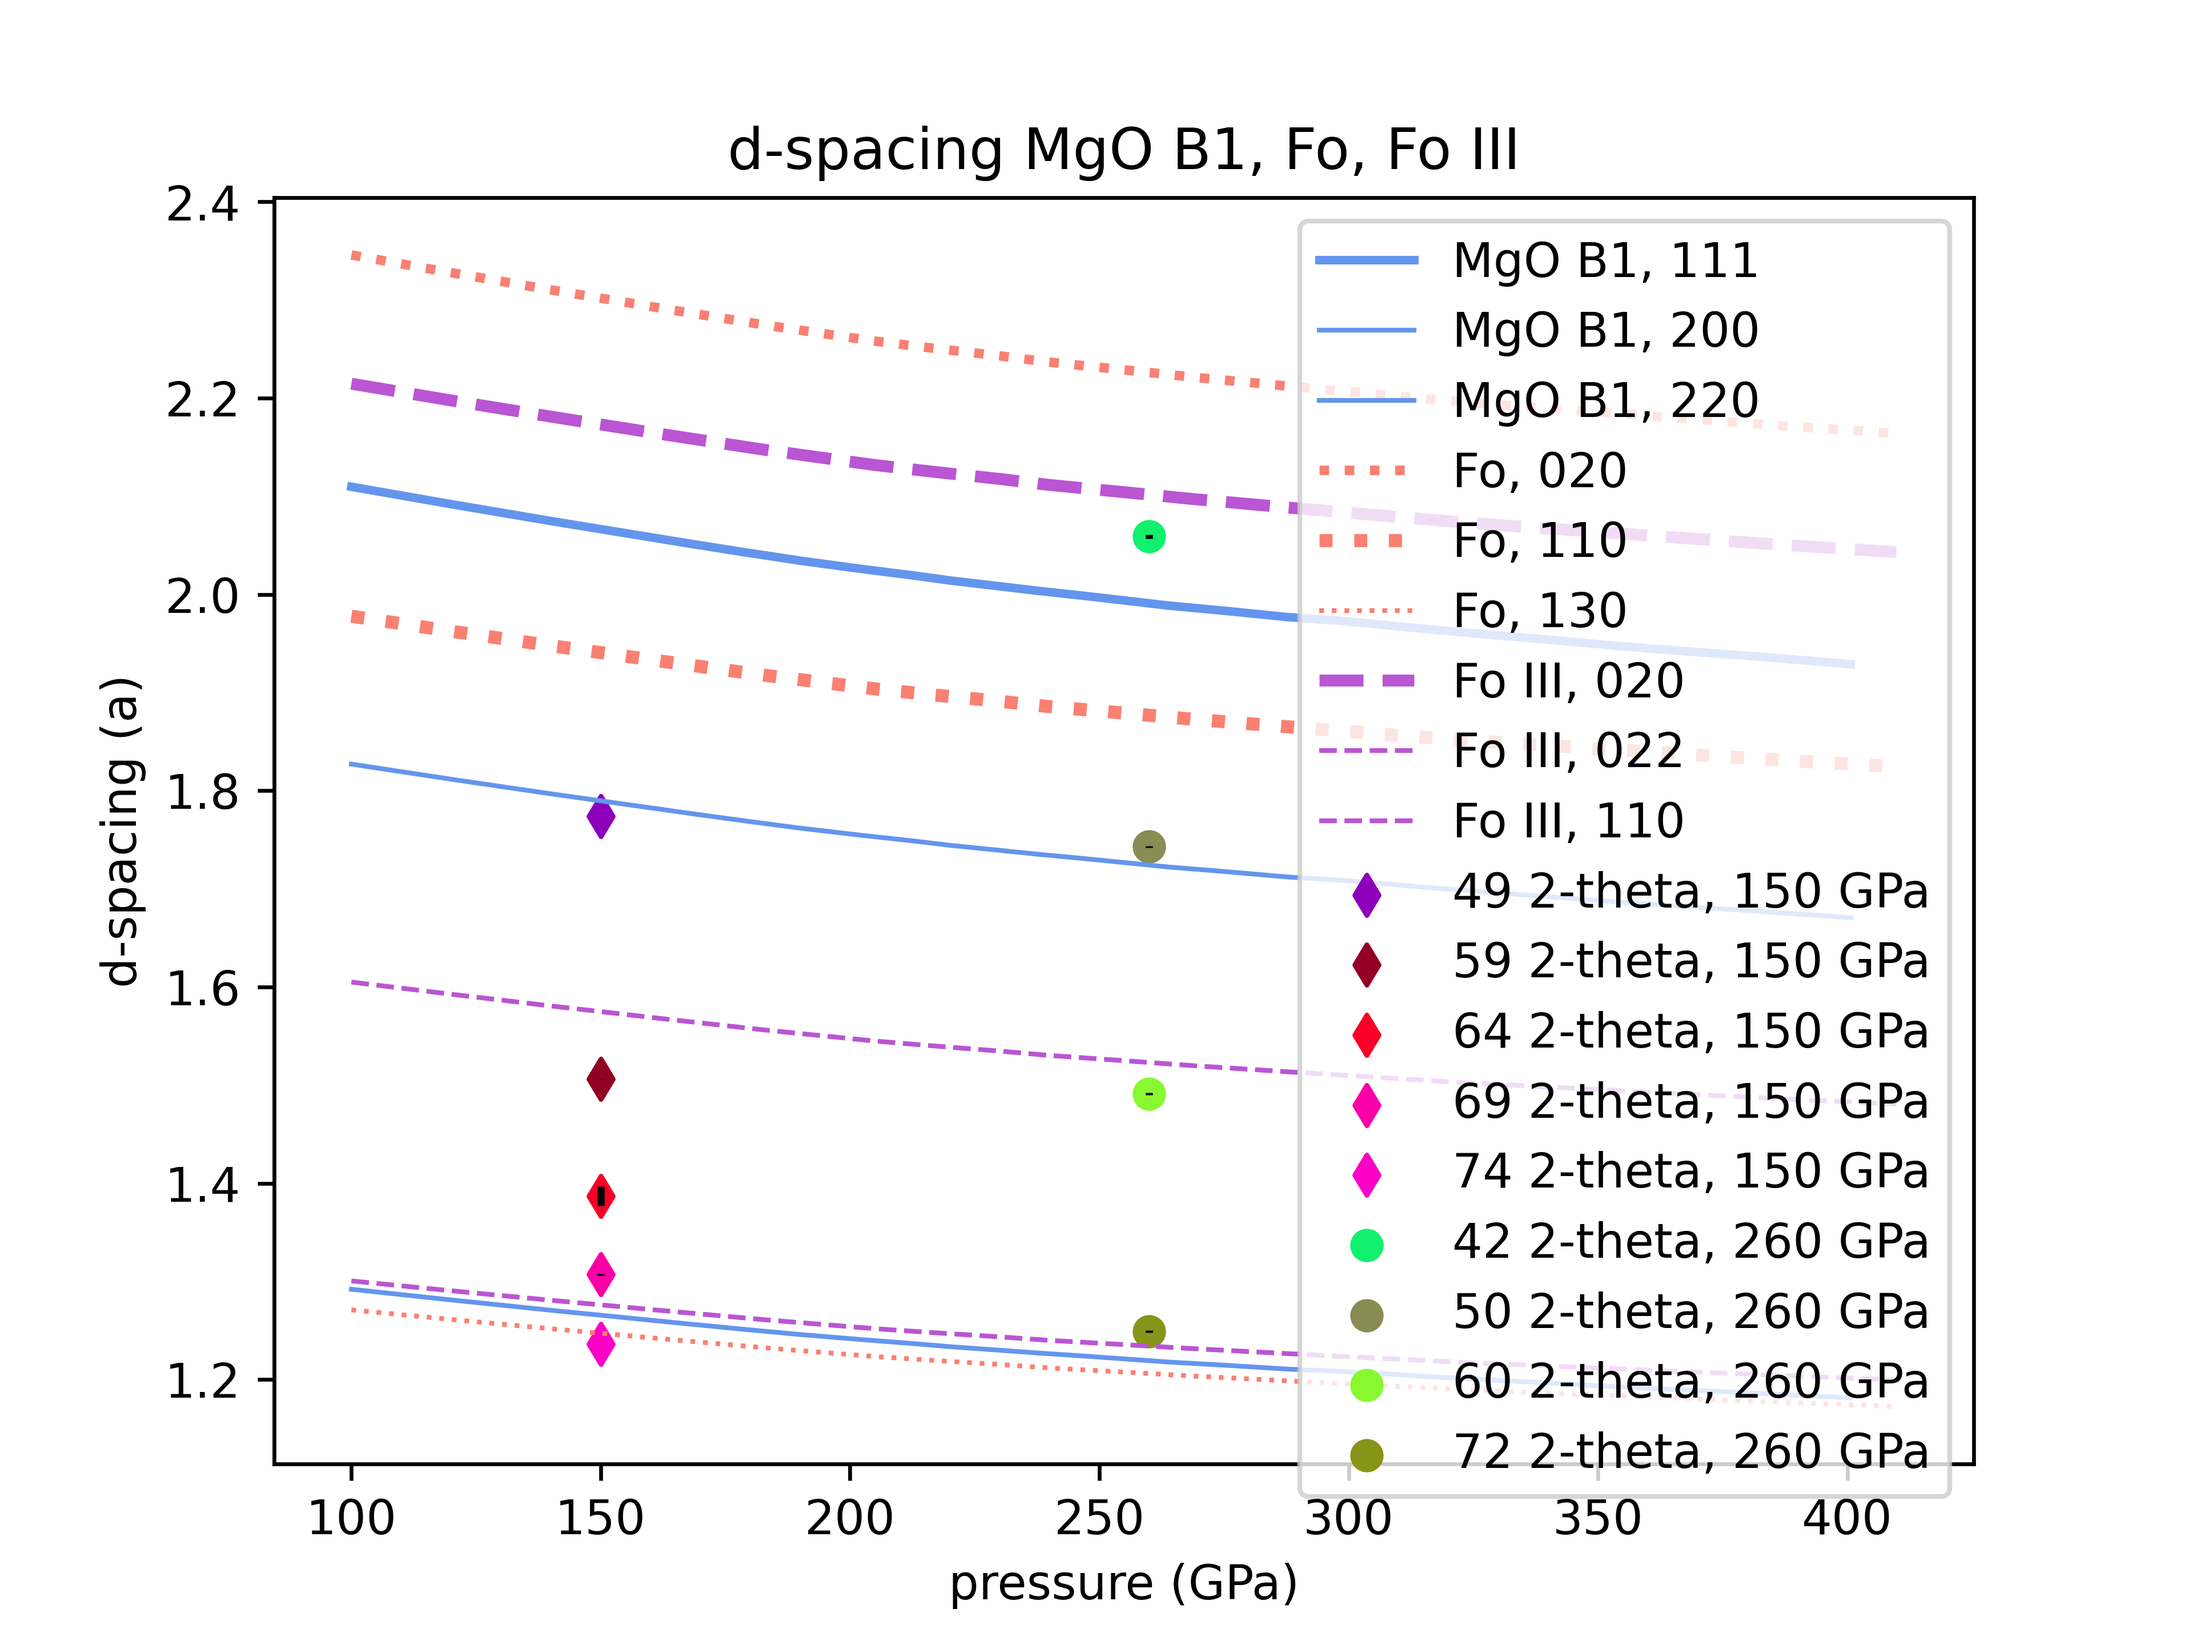
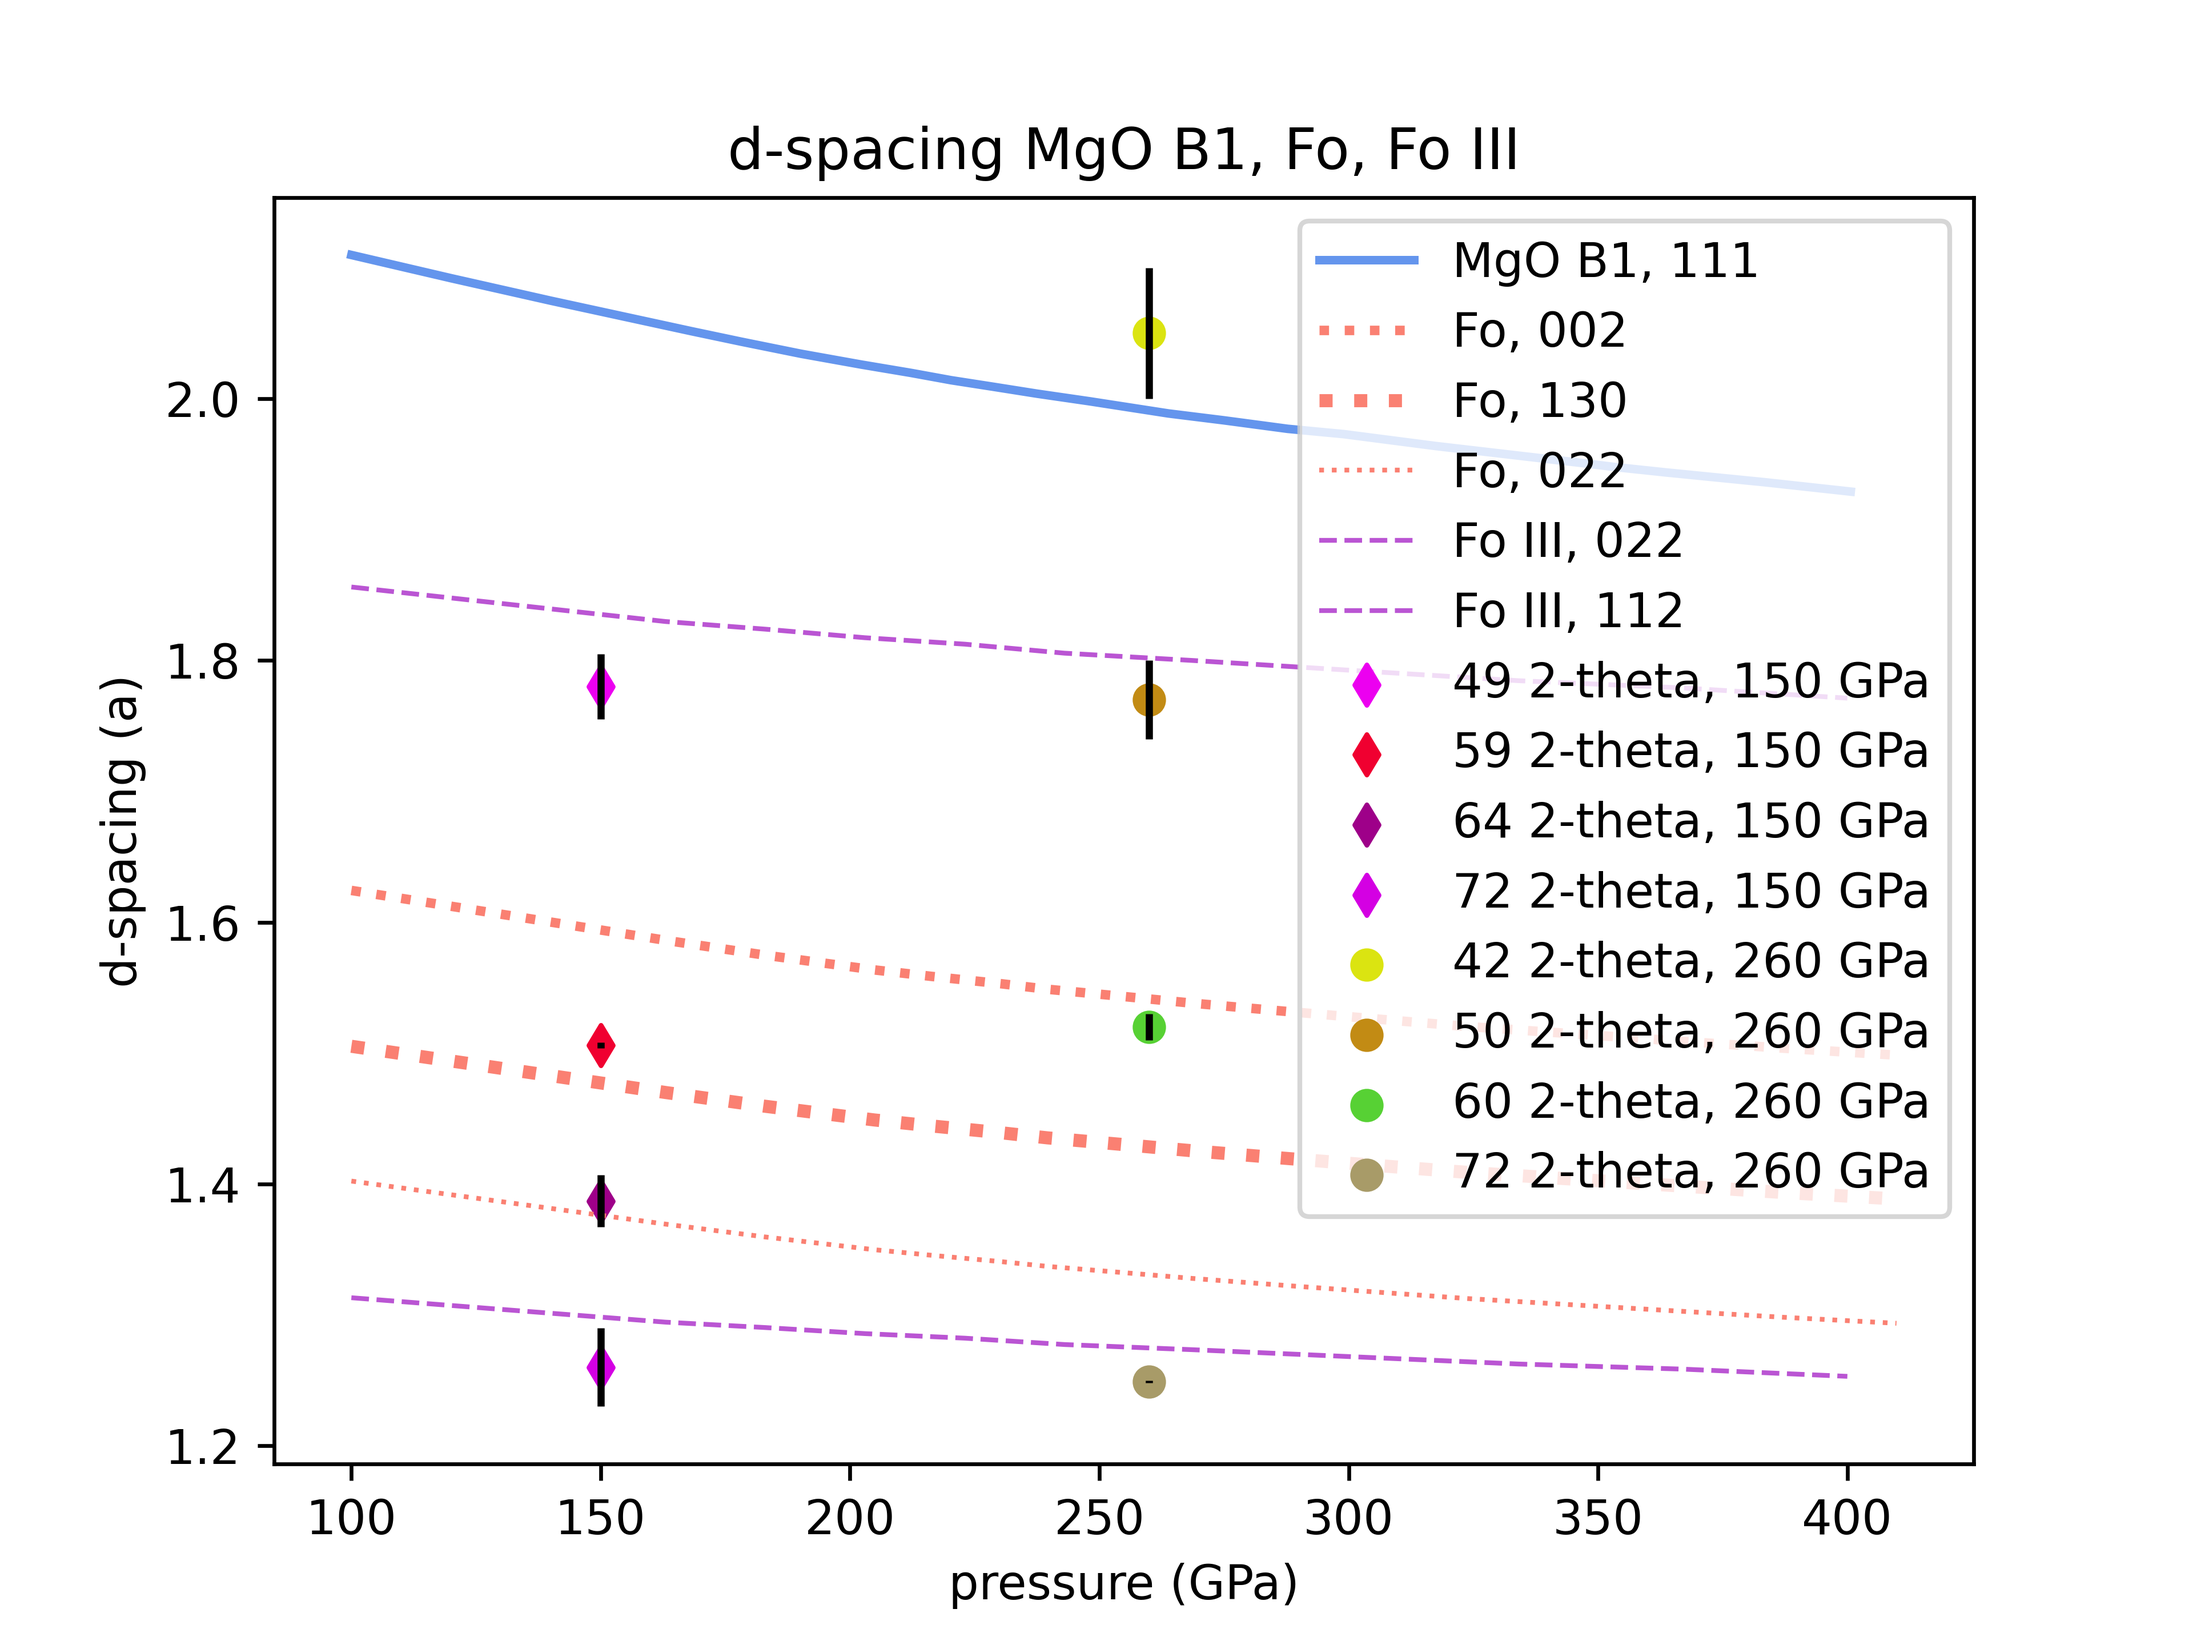
new d-spacing graph

diff --git a/really_really_combined_graph/make_combined_graph.py b/really_really_combined_graph/make_combined_graph.py
@@ -13,11 +13,11 @@ bIII = 8.596
 cIII = 9.04
 pressure_lower = 150
 pressure_higher = 260
-reflections_MgO = [["111",1.8],["200",1],["220",1]]
-reflections_Fo = [["020",2],["110",2.75],["130",1]]
-reflections_FoIII = [["020",2.5],["022",1],["110",1]]
-points_lower = {"49":[1.774,0.0002],"59":[1.506,0.0002],"64":[1.387,0.01],"69":[1.307,0.001],"74":[1.236,0.0001]}
-points_higher = {"42":[2.059,0.002],"50":[1.743,0.001],"60":[1.491,0.001],"72":[1.249,0.001]}
+reflections_MgO = [["111",1.8]]
+reflections_Fo = [["002",2],["130",2.75],["022",1]]
+reflections_FoIII = [["022",1],["112",1]]
+points_lower = {"49":[1.78,0.025],"59":[1.506,0.002],"64":[1.387,0.02],"72":[1.26,0.03]}
+points_higher = {"42":[2.05,0.05],"50":[1.77,0.03],"60":[1.52,0.01],"72":[1.249,0.001]}
 def dspacing_cubic(rho,x,orientation,m):
     h = x[0]
     k = x[1]
@@ -28,7 +28,7 @@ def dspacing_orthorhombic(rho,x,a0,b0,c0,m):
     h = x[0]
     k = x[1]
     l = x[2]
-    v = m/rho
+    v = (m/rho)*1.661
     p0 = v0/v
     p = p0**(1/3)
     a = a0/p
@@ -37,12 +37,13 @@ def dspacing_orthorhombic(rho,x,a0,b0,c0,m):
     return 1/math.sqrt(eval(h)**2/a**2+eval(k)**2/b**2+eval(l)**2/c**2)
 df_MgO = pd.read_csv("MgO_hugonoit.csv")
 df_Fo = pd.read_csv("forsterite_hugoniot.csv")
+df_FoIII = pd.read_csv("forsteriteIII_hugoniot.csv")
 for x in reflections_MgO:
     plt.plot(df_MgO.pressure, df_MgO.density.apply(dspacing_cubic, args = (x[0],6,m_MgO,)), label = f"MgO B1, {x[0]}", lw = x[1], c = "cornflowerblue")
 for x in reflections_Fo:
     plt.plot(df_Fo.pressure, df_Fo.density.apply(dspacing_orthorhombic, args = (x[0],a,b,c,m_Fo,)), label = f"Fo, {x[0]}", ls = ':',lw = x[1], c = "salmon")
 for x in reflections_FoIII:
-    plt.plot(df_Fo.pressure, df_Fo.density.apply(dspacing_orthorhombic, args = (x[0],aIII,bIII,cIII,m_Fo,)), label = f"Fo III, {x[0]}", ls = '--', lw = x[1], c = "mediumorchid")
+    plt.plot(df_FoIII.pressure, df_FoIII.density.apply(dspacing_orthorhombic, args = (x[0],aIII,bIII,cIII,m_Fo,)), label = f"Fo III, {x[0]}", ls = '--', lw = x[1], c = "mediumorchid")
 for key in points_lower.keys():
     mypoints = points_lower[key]
     plt.scatter(pressure_lower,mypoints[0], marker = "d",label = f"{key} 2-theta, {pressure_lower} GPa", c = (random.uniform(0.5,1),0,random.random()))
